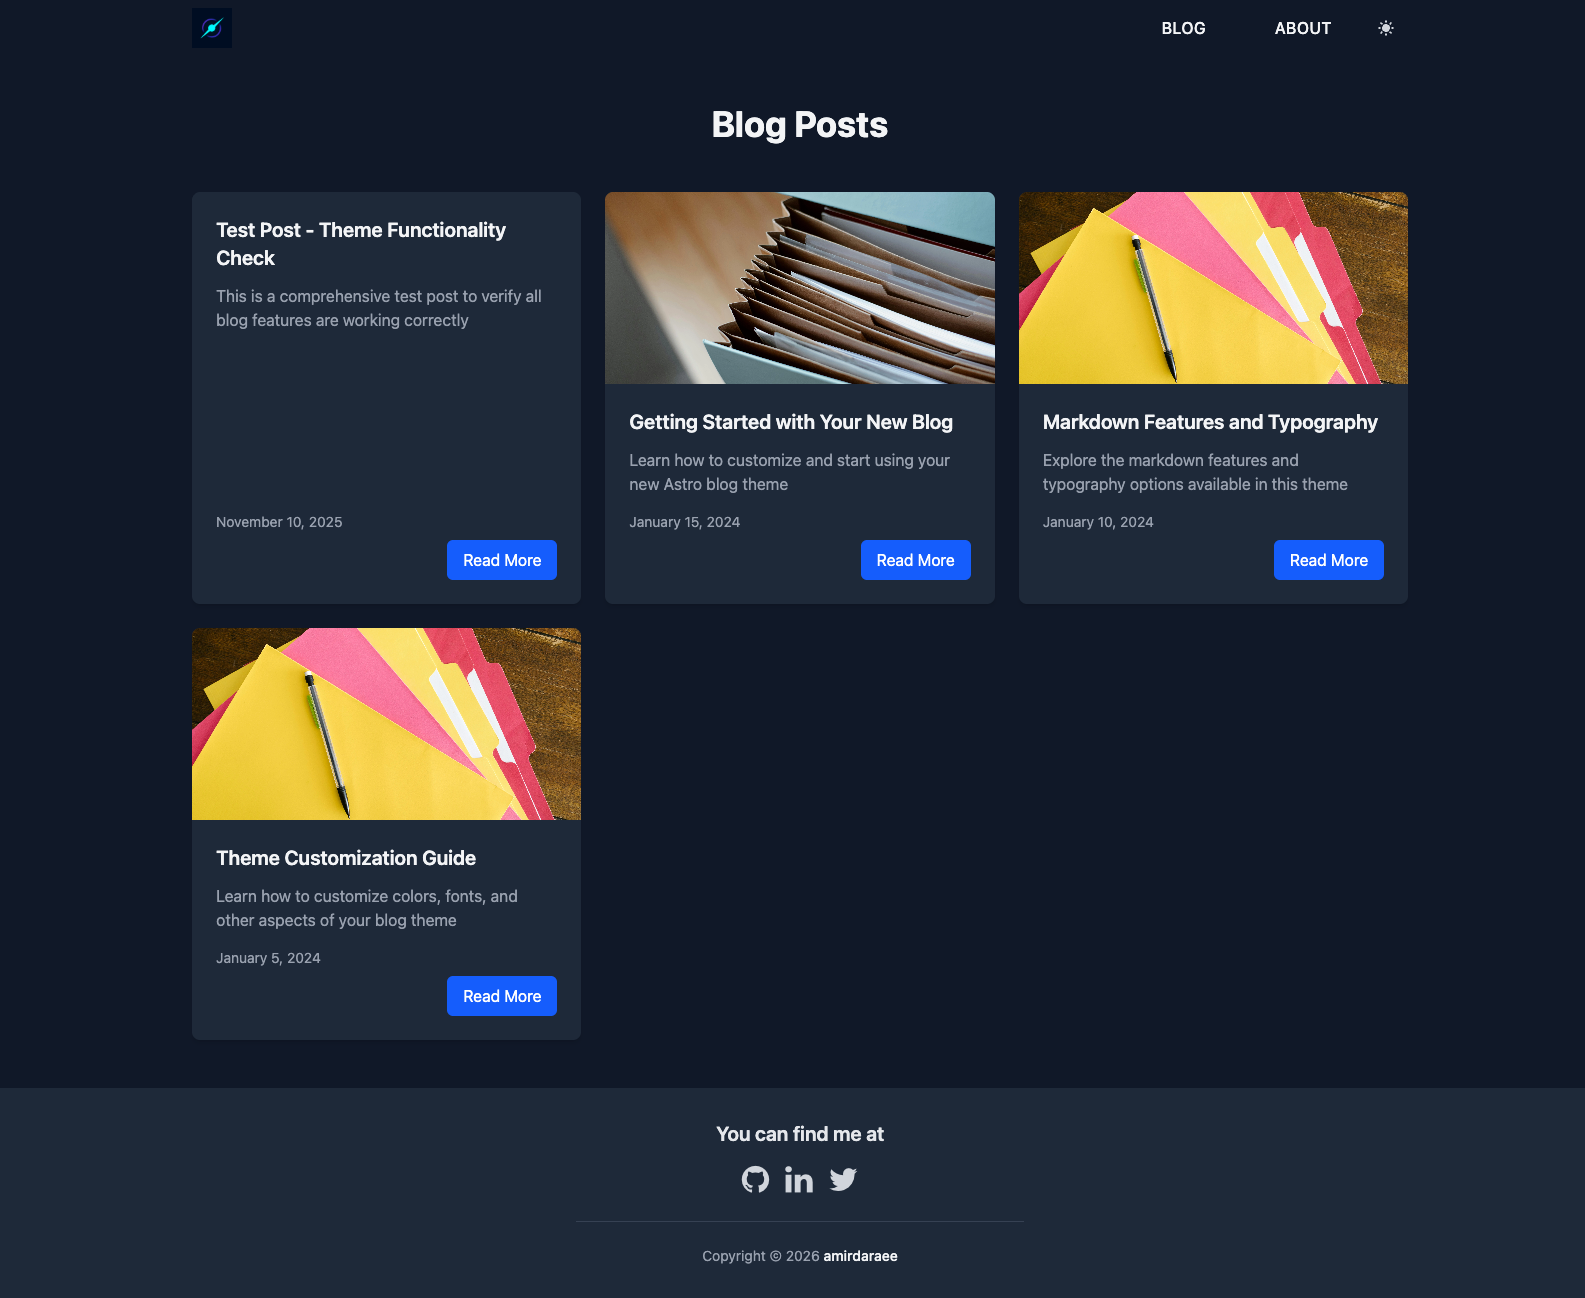
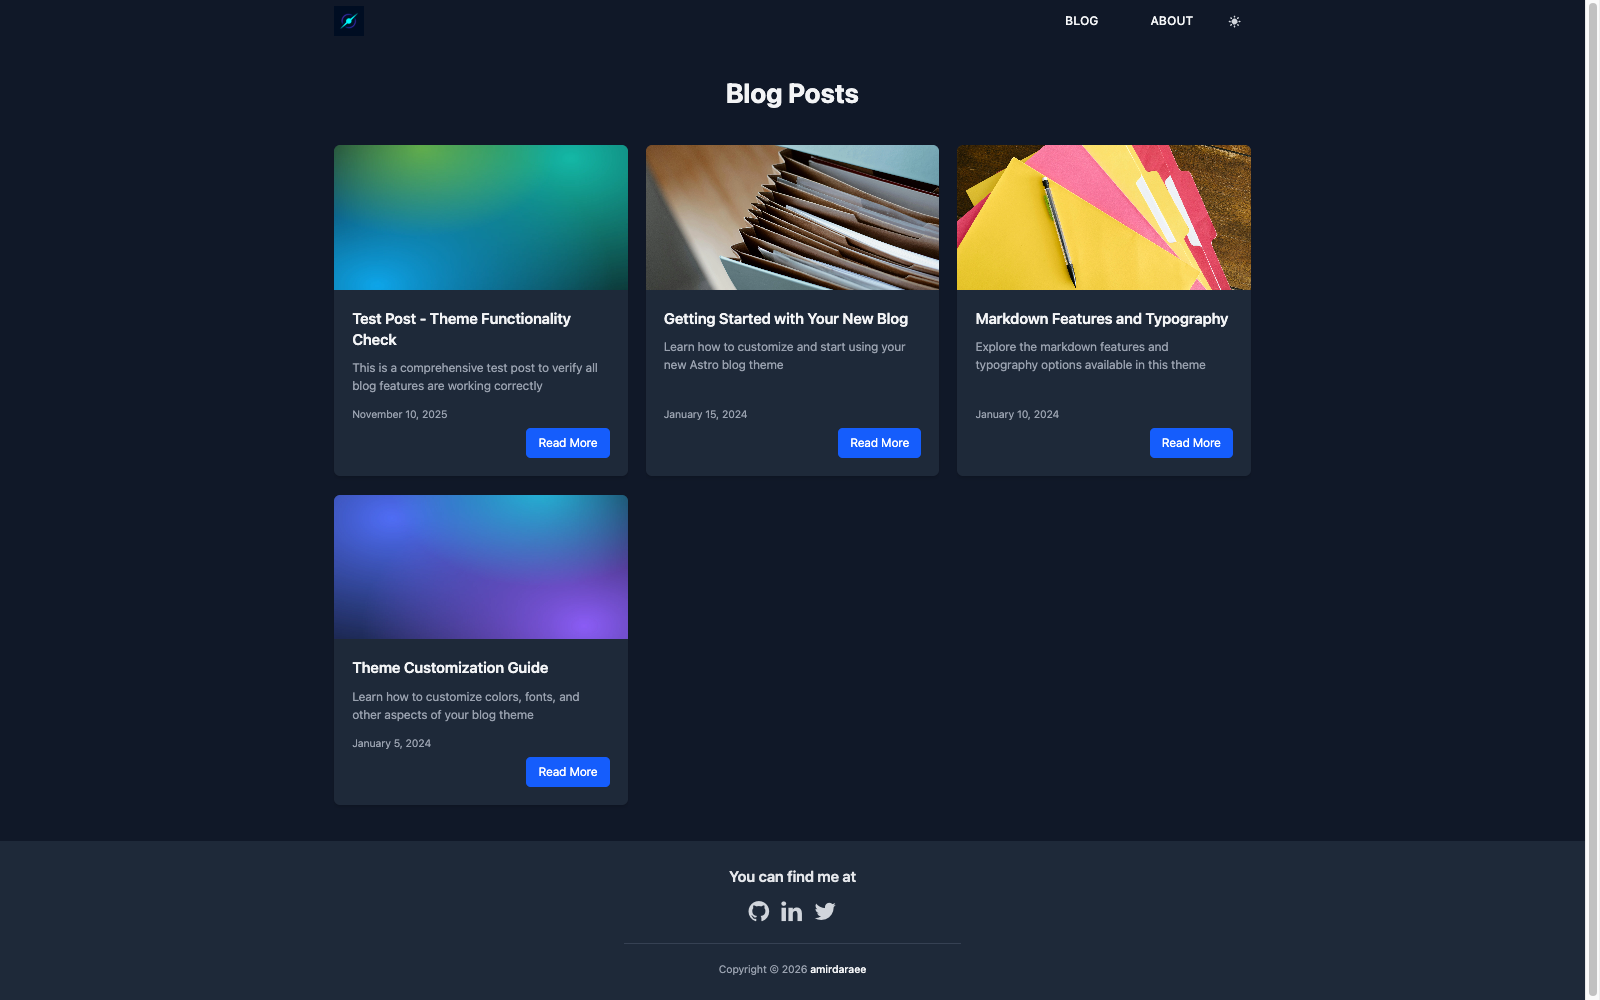
fix: give every demo post a distinct cover image, refresh README screenshot

diff --git a/src/content/blog/customization-guide.md b/src/content/blog/customization-guide.md
@@ -5,7 +5,7 @@ published: true
 date: 2024-01-05
 author: "amirdaraee"
 keywords: ["customization", "theming", "configuration", "design"]
-photo: "/sample-2.jpg"
+photo: "/sample-3.jpg"
 language: "en"
 ---
 

diff --git a/src/content/blog/test-post.md b/src/content/blog/test-post.md
@@ -5,6 +5,7 @@ published: true
 date: 2025-11-10
 author: "amirdaraee"
 keywords: ["test", "demo", "functionality", "astro"]
+photo: "/sample-4.jpg"
 language: "en"
 ---
 